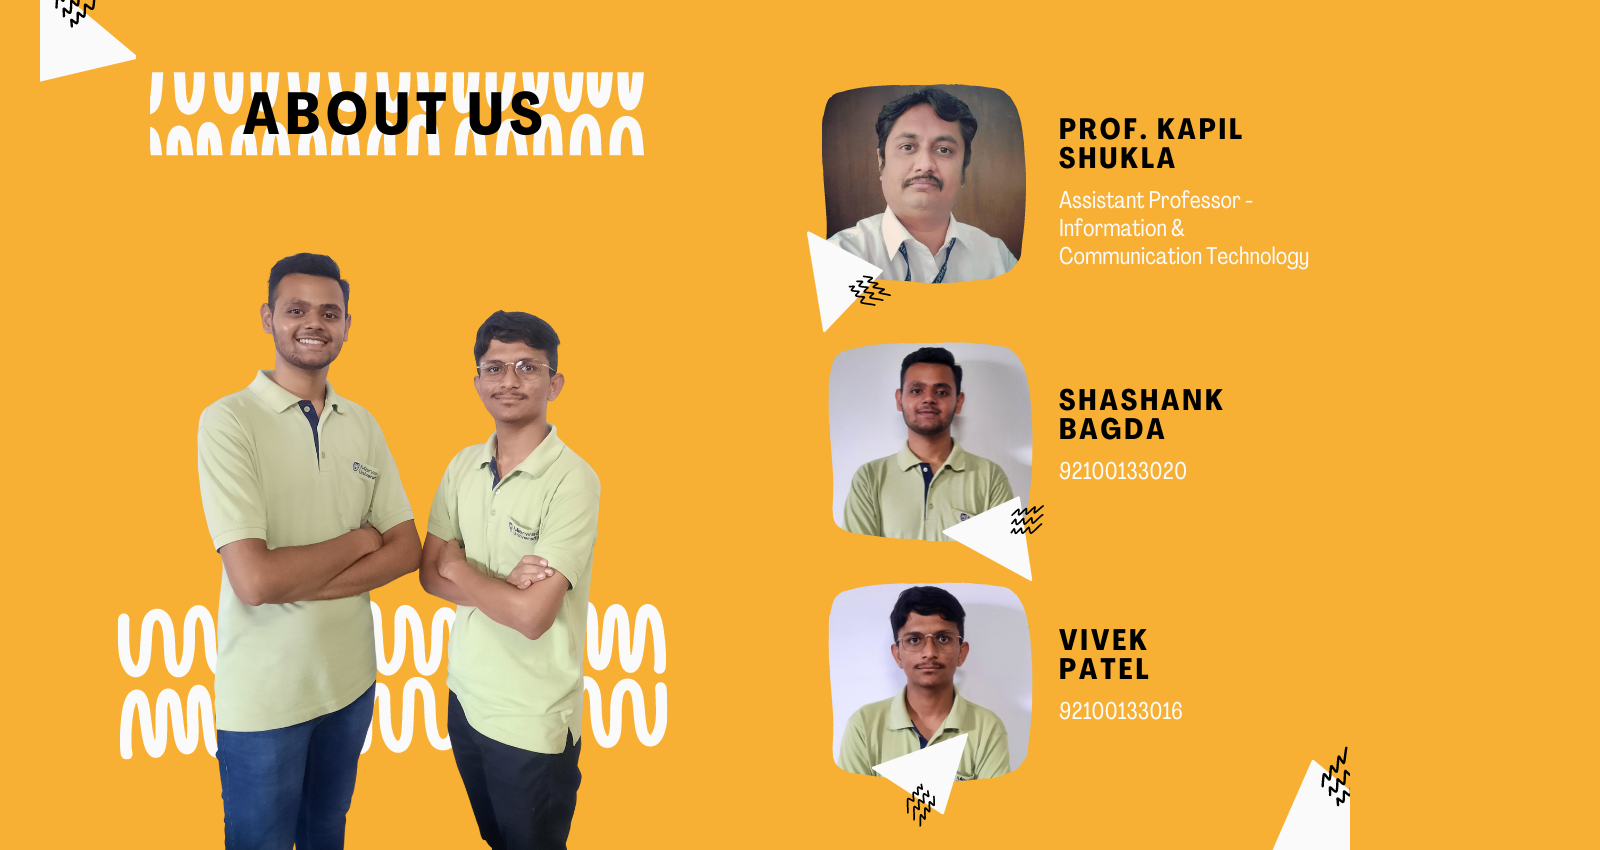
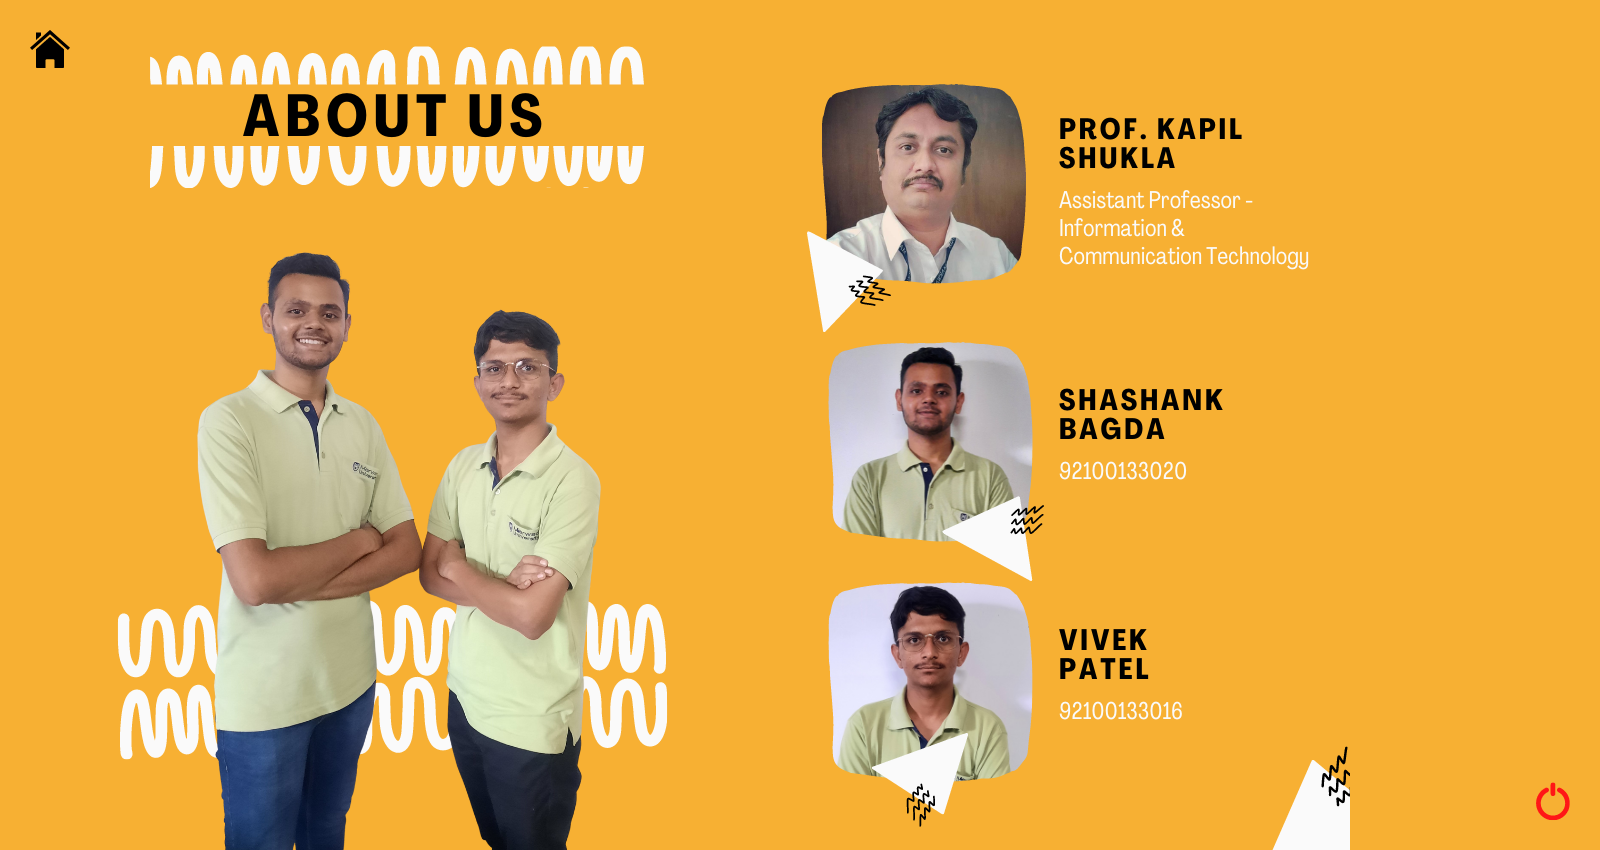
SB

Changed region(s): [[0.0, 0.0, 0.4062, 0.2447], [0.9688, 0.9176, 1.0, 0.9482]]

diff --git a/MyFrame1.java b/MyFrame1.java
@@ -1,4 +1,3 @@
-
 import java.awt.*;
 import java.awt.event.*;
 import java.io.*;
@@ -9,7 +8,7 @@ import javax.swing.border.Border;
 
 public class MyFrame1 extends Frame
 {
-	JButton b1,b2,b3,b4,b5,b6,b7,b8,b9,b10,b11,b12;
+	JButton b1,b2,b3,b4,b5,b6,b7,b8,b9,b10,b11,b12,b13,b14;
 	MyActionListener ml;
 	MyFrame1()
 	{
@@ -87,6 +86,20 @@ public class MyFrame1 extends Frame
 	    b12.setBounds(1234, 675, 36, 38);
 	    add(b12);
 	    b12.addActionListener(ml);
+
+	    JButton b13=new JButton("homepg");
+        b13.setBackground(Color. WHITE);
+        b13.setIcon(new ImageIcon(this.getClass().getResource("Images/listhome.png")));
+        b13.setBounds(28,0,48,50);
+        add(b13);
+        b13.addActionListener(ml);
+
+        JButton b14=new JButton("shut");
+        b14.setBackground(Color. WHITE);
+        b14.setIcon(new ImageIcon(this.getClass().getResource("Images/listshut.png")));
+        b14.setBounds(1532,750,48,54);
+        add(b14);
+        b14.addActionListener(ml);
 		
 		addWindowListener(new WindowAdapter()
 			{

diff --git a/MyFrame3.java b/MyFrame3.java
@@ -1,4 +1,3 @@
-
 import java.awt.*;
 import java.awt.event.*;
 import java.io.*;
@@ -8,18 +7,25 @@ import javax.swing.JFrame;
 
 public class MyFrame3 extends Frame
 {
-	JButton b1;
+	JButton b1,b2;
 	MyActionListener ml;
 	MyFrame3()
 	{
 		setLayout(null);
 		ml = new MyActionListener(this);
-		
-  //       JButton b1 = new JButton("home");
-  //       b1.setIcon(new ImageIcon(this.getClass().getResource("Images/signupb1.png")));
-		// b1.setBounds(635,666,326,56);
-		// add(b1);
-		// b1.addActionListener(ml);
+
+		JButton b1=new JButton("homepg");
+        b1.setBackground(Color. WHITE);
+        b1.setIcon(new ImageIcon(this.getClass().getResource("Images/abtushome.png")));
+        b1.setBounds(28,0,48,50);
+        add(b1);
+        b1.addActionListener(ml);
+
+        JButton b2 = new JButton("shut");
+        b2.setIcon(new ImageIcon(this.getClass().getResource("Images/abtusshut.png")));
+		b2.setBounds(635,666,326,56);
+		add(b2);
+		b2.addActionListener(ml);
 
 		addWindowListener(new WindowAdapter()
 			{

diff --git a/MyFrame.java b/MyFrame.java
@@ -1,5 +1,3 @@
-// Running successfully and showing the image at exact position also the button
-
 import java.awt.*;
 import java.awt.event.*;
 import java.io.*;
@@ -89,6 +87,7 @@ public class MyFrame extends Frame
                 public void windowClosing(WindowEvent we)
                 {
                     System.exit(0);
+                    //dispose();
                 }
             });
     }
@@ -107,7 +106,5 @@ public class MyFrame extends Frame
         JFrame f=new JFrame(); 
         f.add(mf);  
         f.setVisible(true);
-
-        
     }
 } 

diff --git a/MyActionListener.java b/MyActionListener.java
@@ -73,10 +73,6 @@ public class MyActionListener implements ActionListener
 			this.mf.setVisible(true);
 			this.mf.setExtendedState(mf.getExtendedState() | JFrame.MAXIMIZED_BOTH);
 			this.mf1.setVisible(false);
-
-			File directory = new File("D:\\OOP-Project\\Records");
-	        int fileCount = directory.list().length;
-	        this.mf.t1.setText(new Integer(fileCount).toString());
 		}
 
 		if(e.getActionCommand().equals("abtus"))

diff --git a/MyFrame2.java b/MyFrame2.java
@@ -1,4 +1,3 @@
-
 import java.awt.*;
 import java.awt.event.*;
 import java.io.*;
@@ -26,7 +25,7 @@ public class MyFrame2 extends Frame
 		t2 = new TextField(6);
 		t3 = new TextField();
 
-		JPasswordField t4 = new JPasswordField(8); 
+		JPasswordField t4 = new JPasswordField(); 
 		
 		t1.setBounds(635,266,326,56);
 		t2.setBounds(635,370,326,56);
